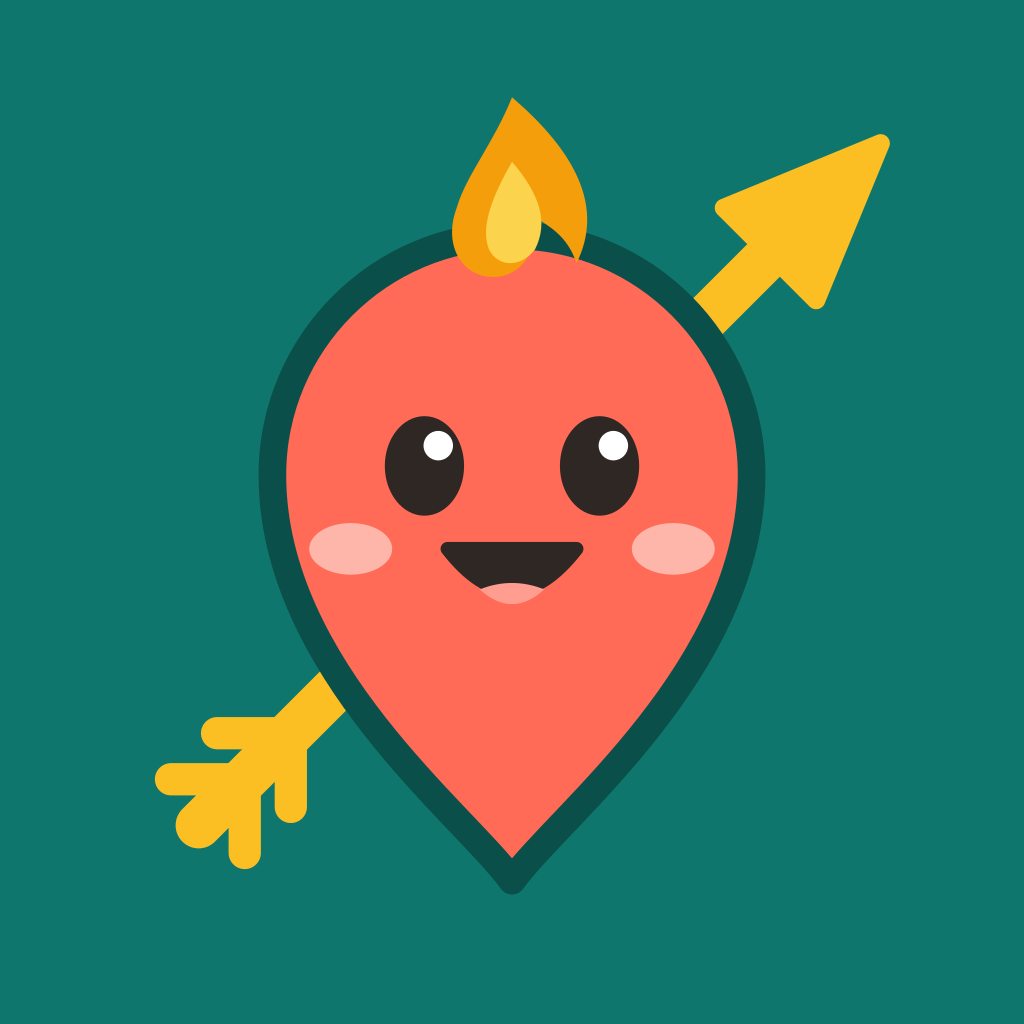
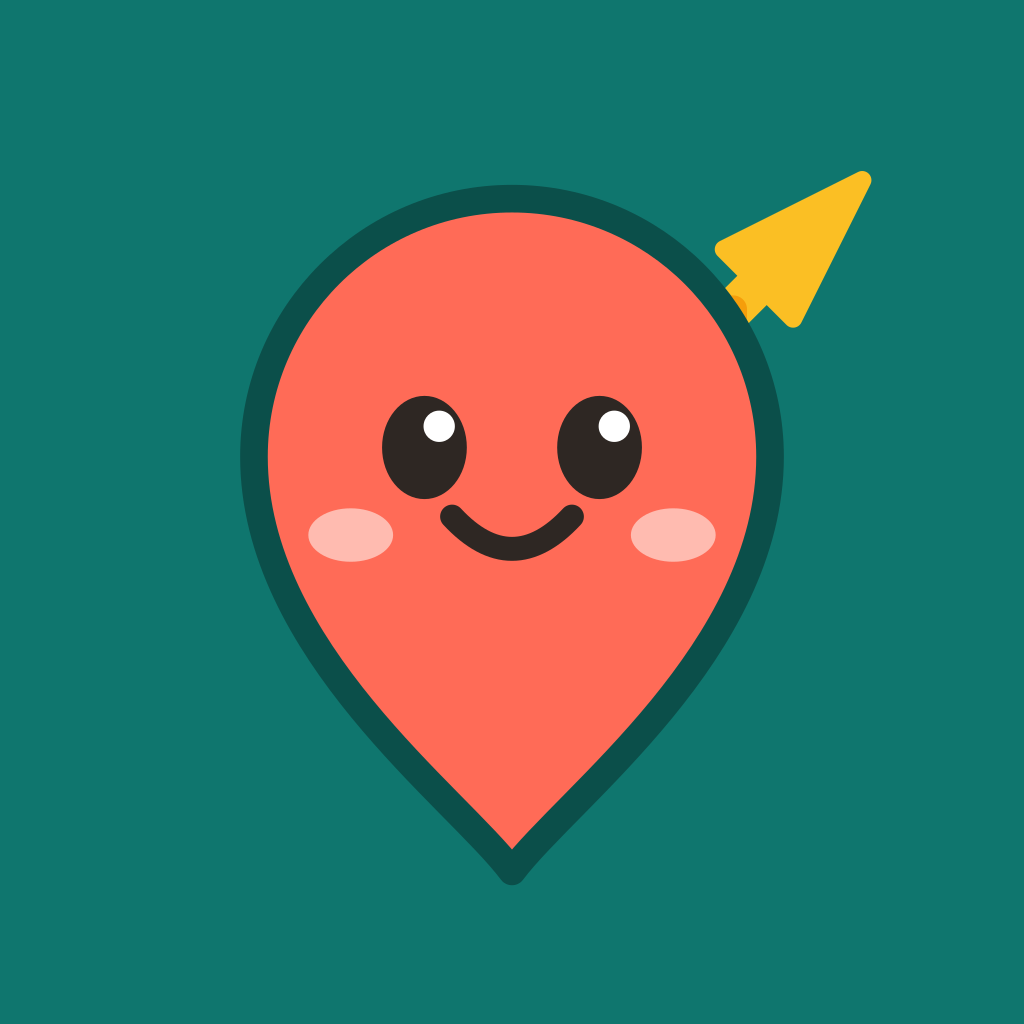
redesign: friendlier map-pin mascot, no carrot

Changed region(s): [[0.1562, 0.0938, 0.875, 0.8438], [0.375, 0.7188, 0.625, 0.875]]

diff --git a/scripts/src/generate-brand.ts b/scripts/src/generate-brand.ts
@@ -31,67 +31,58 @@ const WHITE = '#ffffff'
 //
 // A map pin with a Sagittarius personality, drawn in a 100-unit box:
 //
-//  - the body is the brand's pin, chubby and coral
-//  - big bright eyes, rosy cheeks and an open grin: the sign's optimism
-//  - the Archer's golden arrow passing behind, pointing up-right like the ♐
-//    glyph - "let's go and find somewhere"
-//  - a flame tuft for the fire element
+//  - the body is the brand's pin: round-headed, coral, with a short tip
+//  - big bright eyes, rosy cheeks and a soft smile: the sign's optimism
+//  - the Archer's golden dart, small and clear of the face, flying up-right
+//    like the ♐ glyph - "let's go and find somewhere"
 //
 // Kept to those elements on purpose: the theme is minimalist, and every extra
-// detail is noise at icon sizes. Drawing order matters - the arrow sits behind
-// the body, so it reads as an arrow rather than a line through the face.
+// detail is noise at icon sizes. Two earlier details are deliberately gone - a
+// flame tuft on the head and a full-length arrow crossing the icon - because
+// together they read as a carrot with leaves rather than a map pin.
 
-/** Chubby pin: head circle centred (50,46) r26, tip at (50,90). */
-const BODY = 'M50 90 C45 83 24 67 24 46 A26 26 0 1 1 76 46 C76 67 55 83 50 90 Z'
+/** Round-headed pin: head circle centred (50,44) r28, tip at (50,89). */
+const BODY = 'M50 89 C44 81 22 65 22 44 A28 28 0 1 1 78 44 C78 65 56 81 50 89 Z'
 
-/** The arrow runs along y = 100 - x, from the fletching (16,84) to the tip (90,10). */
-const ARROW_SHAFT = 'M16 84 L80 20'
-const ARROW_HEAD = 'M90 10 L83 27 L73 17 Z'
-/** Two chevrons on the shaft; their vertices sit on the line (x + y = 100). */
-const ARROW_FLETCHING = 'M26 74 L18 74 M26 74 L26 82 M21 79 L13 79 M21 79 L21 87'
-
-const FLAME_OUTER =
-  'M50 5 C57 11 60 17 57 23 C56 20 54 19 52.5 18 C53 21.5 51 24.5 48 24.5 ' +
-  'C44.5 24.5 42.5 21 44 17 C45 13.5 48 10 50 5 Z'
-const FLAME_INNER = 'M50 12 C53 15.5 54 18.5 52.5 21.5 C51 23.5 48.5 23.5 47.5 21.5 C46.5 19 48 15.5 50 12 Z'
+/** A compact dart up by the pin's shoulder, angled along y = 100 - x. */
+const DART_SHAFT = 'M72 30 L84 18'
+const DART_HEAD = 'M88 14 L80.5 29 L73 21.5 Z'
+const DART_FLETCHING = 'M74 28 L68 28 M74 28 L74 34'
 
 const EYES = [
-  { cx: 40.5, cy: 45 },
-  { cx: 59.5, cy: 45 },
+  { cx: 40.5, cy: 43 },
+  { cx: 59.5, cy: 43 },
 ]
-const MOUTH = 'M43 54 Q50 63 57 54 Z'
-const TONGUE = 'M46.5 58.4 Q50 61.6 53.5 58.4 Q50 57 46.5 58.4 Z'
+/** An open curve, not a filled mouth: it stays a smile when the icon is tiny. */
+const SMILE = 'M43.5 50.5 Q50 57.5 56.5 50.5'
 
 /** The full character, for every surface big enough to show it. */
 function mascot(): string {
   return [
-    // Arrow first: behind the body.
-    `<path d="${ARROW_SHAFT}" stroke="${M.arrow}" stroke-width="5" stroke-linecap="round"/>`,
-    `<path d="${ARROW_FLETCHING}" stroke="${M.arrow}" stroke-width="3.5" stroke-linecap="round" fill="none"/>`,
-    `<path d="${ARROW_HEAD}" fill="${M.arrow}" stroke="${M.arrow}" stroke-width="2" stroke-linejoin="round"/>`,
+    // The dart first: behind the body, so the head overlaps its fletching.
+    `<path d="${DART_SHAFT}" stroke="${M.arrow}" stroke-width="4.5" stroke-linecap="round"/>`,
+    `<path d="${DART_HEAD}" fill="${M.arrow}" stroke="${M.arrow}" stroke-width="2" stroke-linejoin="round"/>`,
+    `<path d="${DART_FLETCHING}" stroke="${M.fletching}" stroke-width="3" stroke-linecap="round" fill="none"/>`,
     `<path d="${BODY}" fill="${M.body}" stroke="${M.outline}" stroke-width="3" stroke-linejoin="round"/>`,
-    `<path d="${FLAME_OUTER}" fill="${M.flame}"/>`,
-    `<path d="${FLAME_INNER}" fill="${M.flameLight}"/>`,
-    ...EYES.map(({ cx, cy }) => `<ellipse cx="${cx}" cy="${cy}" rx="4.3" ry="5.4" fill="${M.eyes}"/>`),
+    `<ellipse cx="32.5" cy="52.5" rx="4.6" ry="2.9" fill="${M.blush}" opacity="0.85"/>`,
+    `<ellipse cx="67.5" cy="52.5" rx="4.6" ry="2.9" fill="${M.blush}" opacity="0.85"/>`,
+    ...EYES.map(({ cx, cy }) => `<ellipse cx="${cx}" cy="${cy}" rx="4.6" ry="5.6" fill="${M.eyes}"/>`),
     // Catchlights: the single detail that makes a face read as alive.
-    ...EYES.map(({ cx, cy }) => `<circle cx="${cx + 1.5}" cy="${cy - 2.2}" r="1.6" fill="${WHITE}"/>`),
-    `<ellipse cx="32.5" cy="54" rx="4.5" ry="2.8" fill="${M.blush}" opacity="0.8"/>`,
-    `<ellipse cx="67.5" cy="54" rx="4.5" ry="2.8" fill="${M.blush}" opacity="0.8"/>`,
-    `<path d="${MOUTH}" fill="${M.eyes}" stroke="${M.eyes}" stroke-width="1.5" stroke-linejoin="round"/>`,
-    `<path d="${TONGUE}" fill="${M.tongue}"/>`,
+    ...EYES.map(({ cx, cy }) => `<circle cx="${cx + 1.6}" cy="${cy - 2.3}" r="1.7" fill="${WHITE}"/>`),
+    `<path d="${SMILE}" fill="none" stroke="${M.eyes}" stroke-width="2.6" stroke-linecap="round"/>`,
   ].join('')
 }
 
 /**
- * At 16 px the arrow, flame and cheeks turn into noise, so the smallest tab size
+ * At 16 px the dart, smile and cheeks turn into noise, so the smallest tab size
  * keeps only what survives: the pin and two large eyes. Still recognisably the
  * same character.
  */
 function mascotMini(): string {
   return [
     `<path d="${BODY}" fill="${M.body}"/>`,
-    `<ellipse cx="39.5" cy="46" rx="5.5" ry="7" fill="${M.eyes}"/>`,
-    `<ellipse cx="60.5" cy="46" rx="5.5" ry="7" fill="${M.eyes}"/>`,
+    `<ellipse cx="40" cy="44" rx="5.6" ry="7" fill="${M.eyes}"/>`,
+    `<ellipse cx="60" cy="44" rx="5.6" ry="7" fill="${M.eyes}"/>`,
   ].join('')
 }
 
@@ -103,13 +94,12 @@ function mascotMini(): string {
 function mascotSilhouette(id: string): string {
   return (
     `<defs><mask id="${id}">` +
-    `<path d="${ARROW_SHAFT}" stroke="white" stroke-width="5" stroke-linecap="round"/>` +
-    `<path d="${ARROW_FLETCHING}" stroke="white" stroke-width="3.5" stroke-linecap="round" fill="none"/>` +
-    `<path d="${ARROW_HEAD}" fill="white" stroke="white" stroke-width="2" stroke-linejoin="round"/>` +
+    `<path d="${DART_SHAFT}" stroke="white" stroke-width="4.5" stroke-linecap="round"/>` +
+    `<path d="${DART_FLETCHING}" stroke="white" stroke-width="3" stroke-linecap="round" fill="none"/>` +
+    `<path d="${DART_HEAD}" fill="white" stroke="white" stroke-width="2" stroke-linejoin="round"/>` +
     `<path d="${BODY}" fill="white"/>` +
-    `<path d="${FLAME_OUTER}" fill="white"/>` +
-    EYES.map(({ cx, cy }) => `<ellipse cx="${cx}" cy="${cy}" rx="4.3" ry="5.4" fill="black"/>`).join('') +
-    `<path d="${MOUTH}" fill="black"/>` +
+    EYES.map(({ cx, cy }) => `<ellipse cx="${cx}" cy="${cy}" rx="4.6" ry="5.6" fill="black"/>`).join('') +
+    `<path d="${SMILE}" fill="none" stroke="black" stroke-width="2.6" stroke-linecap="round"/>` +
     `</mask></defs>` +
     `<rect width="100" height="100" fill="${WHITE}" mask="url(#${id})"/>`
   )

diff --git a/packages/shared/src/brand.ts b/packages/shared/src/brand.ts
@@ -77,14 +77,15 @@ export const dark: Palette = {
 
 /** The mascot's own colours - fixed, so the character is the same on any theme. */
 export const mascotColors = {
+  /** The pin itself. Also the map marker on the website. */
   body: '#ff6b57',
   outline: '#0b4f4a',
   eyes: '#2e2723',
+  /** The Archer's dart. */
   arrow: '#fbbf24',
-  flame: '#f59e0b',
-  flameLight: '#fcd34d',
+  /** The dart's fletching, a shade deeper so it reads against the shaft. */
+  fletching: '#f59e0b',
   blush: '#ffc9bf',
-  tongue: '#ff9d90',
 } as const
 
 /** Icon backgrounds: teal for the public site and app, warm ink for the admin tab. */
